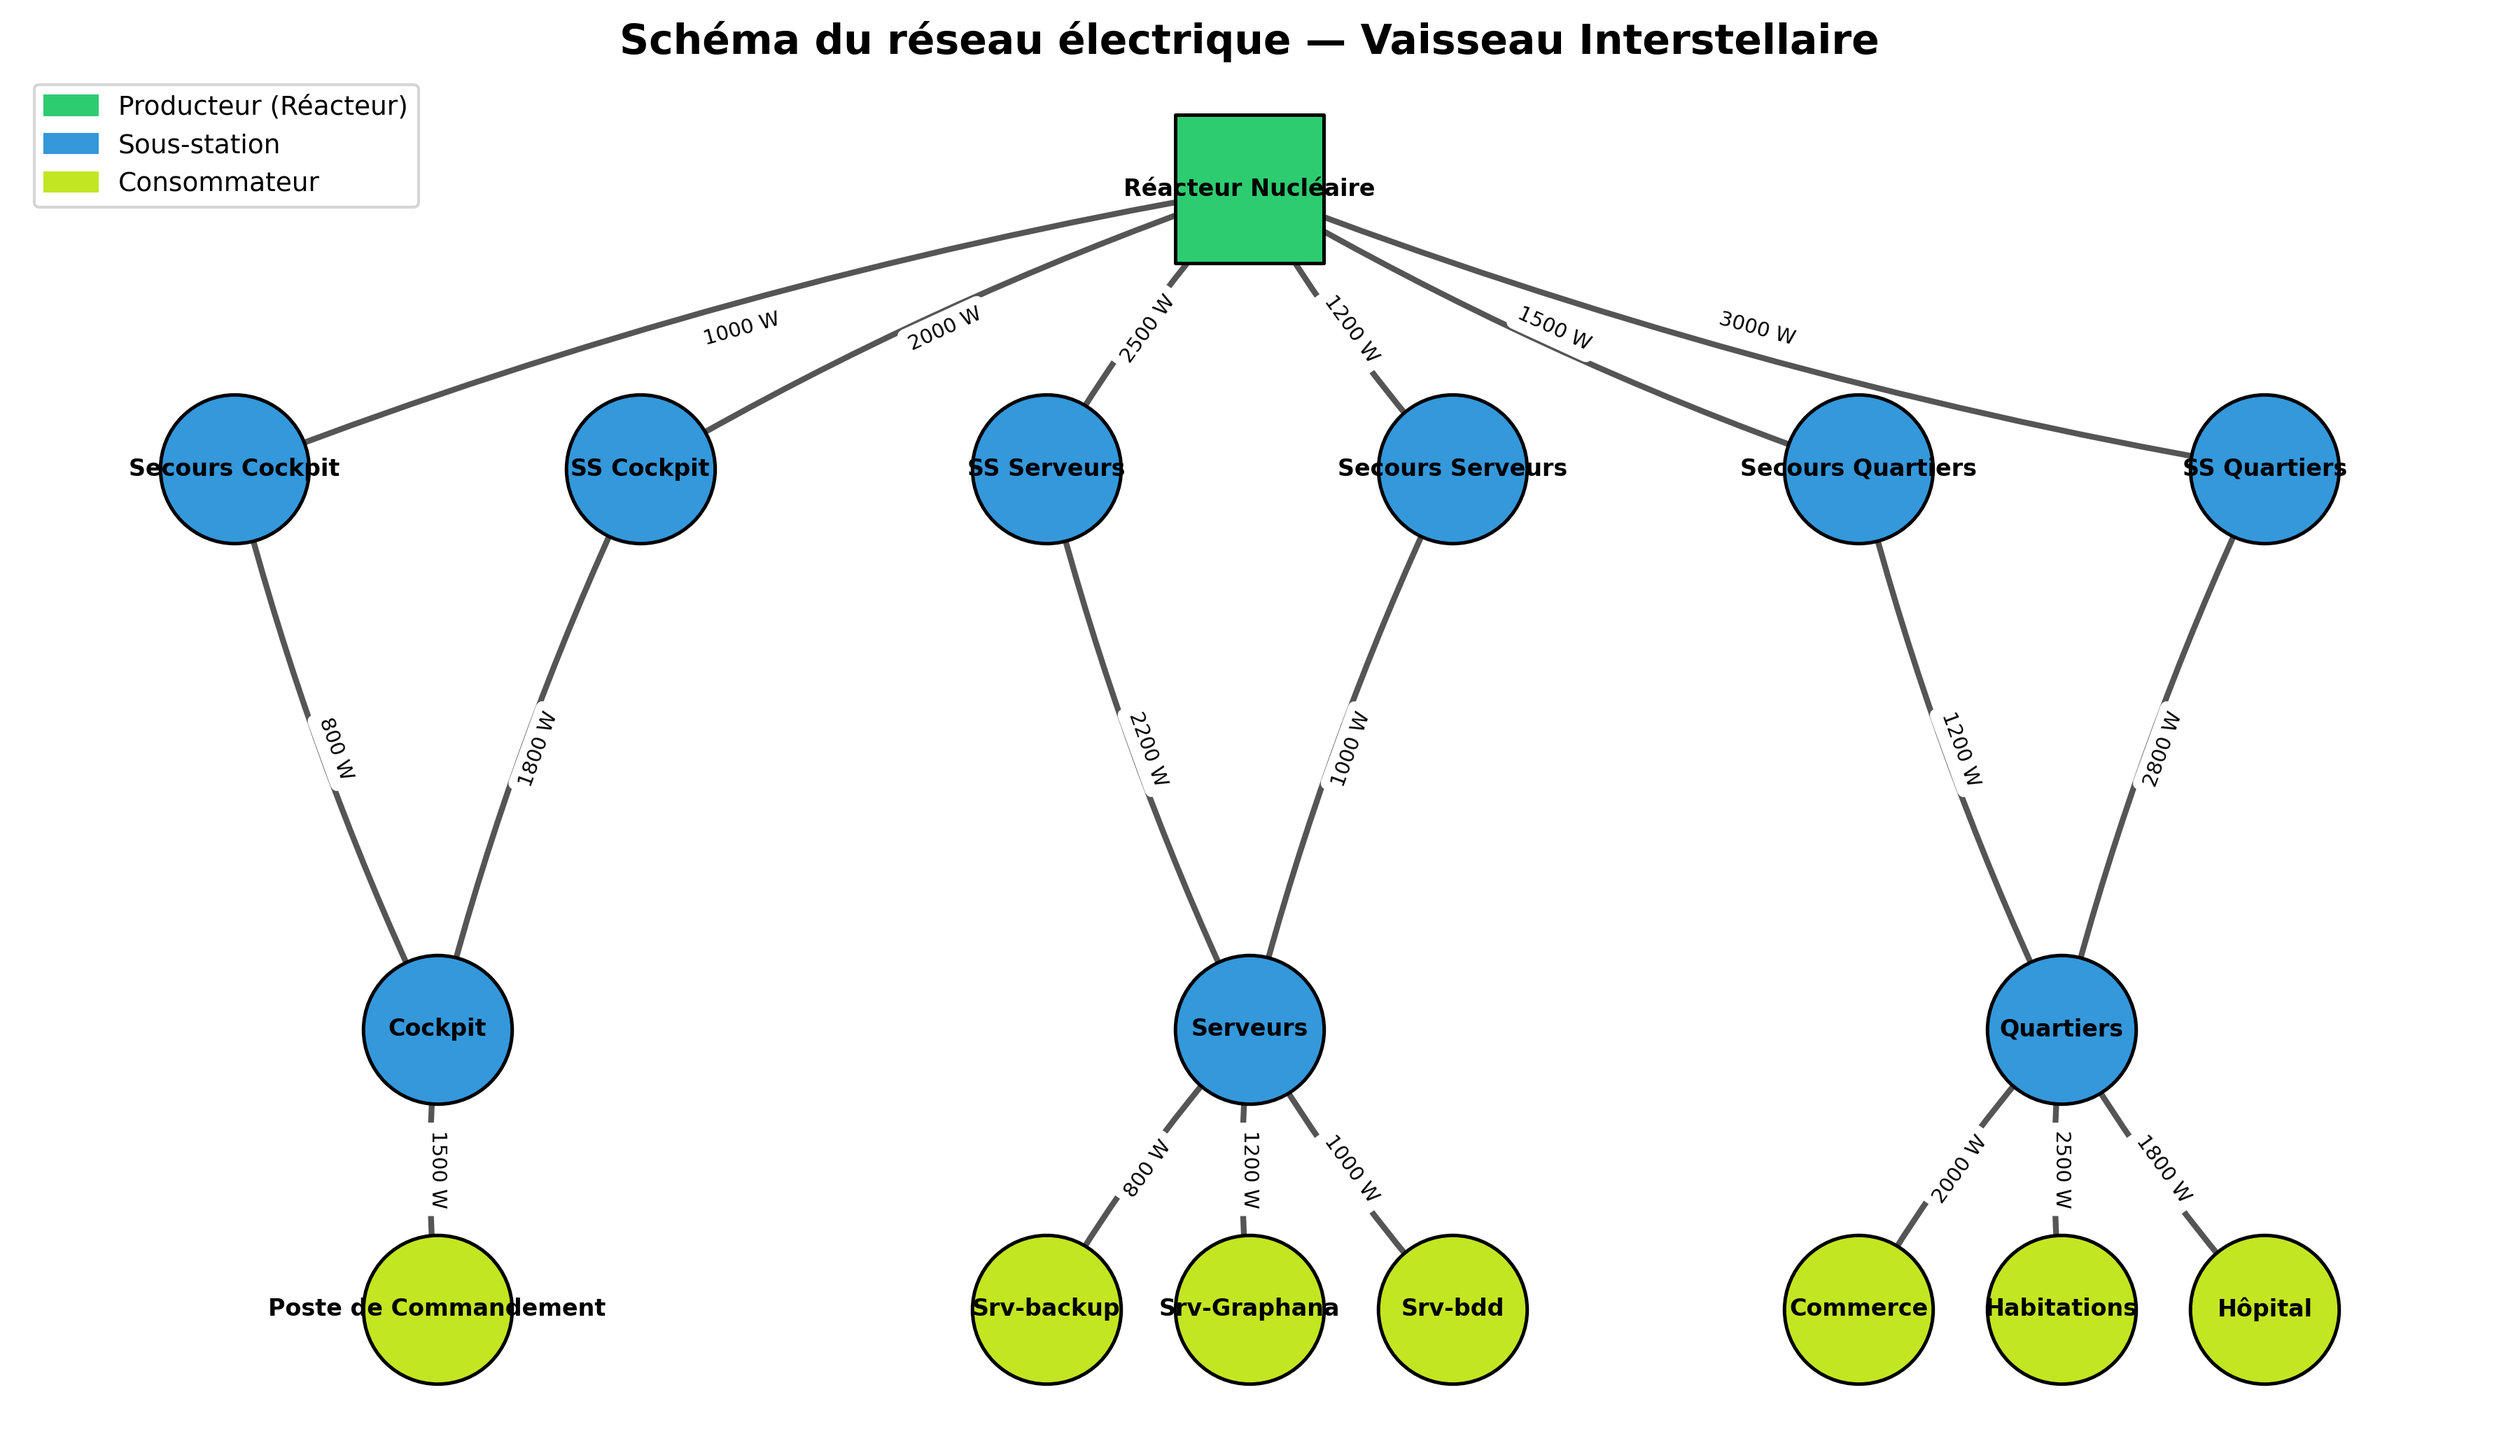
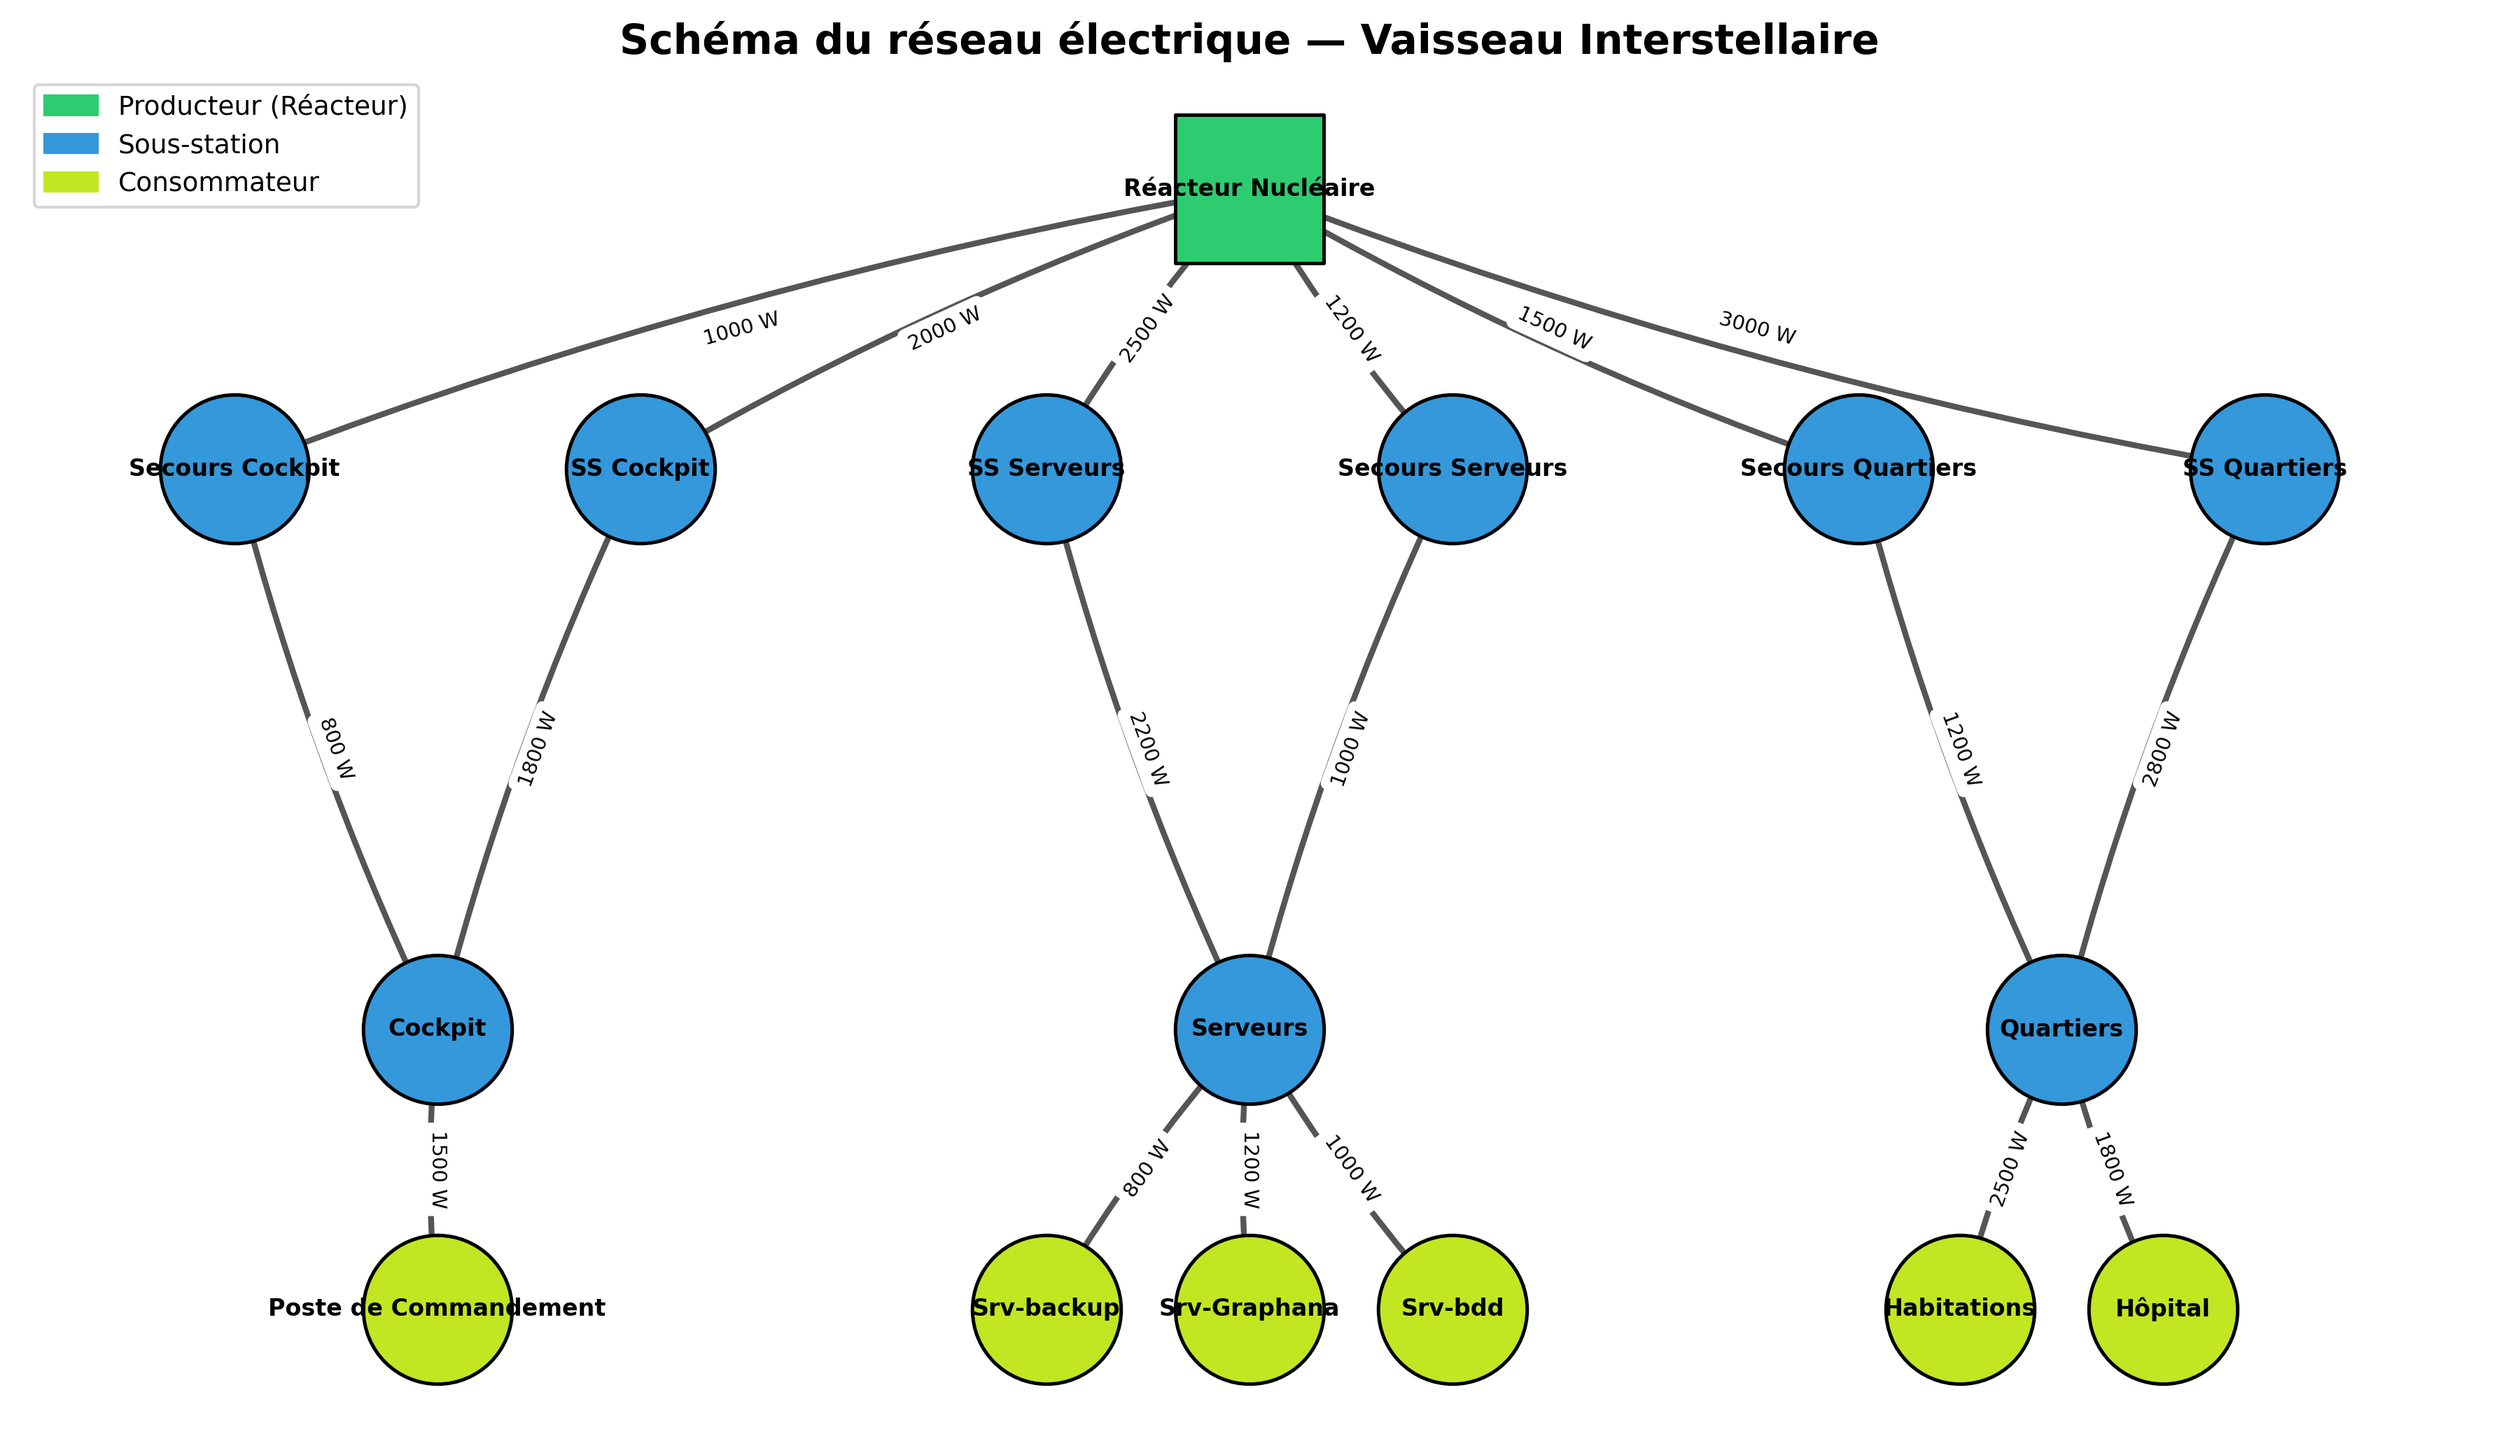
premier test du healer

Changed region(s): [[0.7151, 0.7733, 0.9639, 0.9589]]

diff --git a/graph_elec.py b/graph_elec.py
@@ -32,7 +32,6 @@ NODES = {
     "Srv-Graphana":              "consommateur",
     "Srv-bdd":                   "consommateur",
     "Srv-backup":                "consommateur",
-    "Commerce":                  "consommateur",
     "Habitations":               "consommateur",
     "Hôpital":                   "consommateur",
 }
@@ -57,7 +56,6 @@ EDGES = [
     ("Serveurs",           "Srv-Graphana",          1200),
     ("Serveurs",           "Srv-bdd",               1000),
     ("Serveurs",           "Srv-backup",            800),
-    ("Quartiers",          "Commerce",              2000),
     ("Quartiers",          "Habitations",           2500),
     ("Quartiers",          "Hôpital",               1800),
 ]
@@ -93,9 +91,8 @@ pos = {
     "Srv-Graphana":          (5, 0),
     "Srv-bdd":               (5.5, 0),
     "Srv-backup":            (4.5, 0),
-    "Commerce":              (6.5, 0),
-    "Habitations":           (7, 0),
-    "Hôpital":               (7.5, 0),
+    "Habitations":           (6.75, 0),
+    "Hôpital":               (7.25, 0),
 }
 
 # ---------------------------------------------------------------------------
